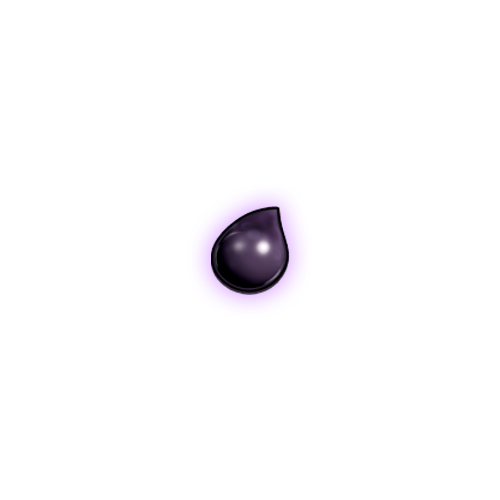
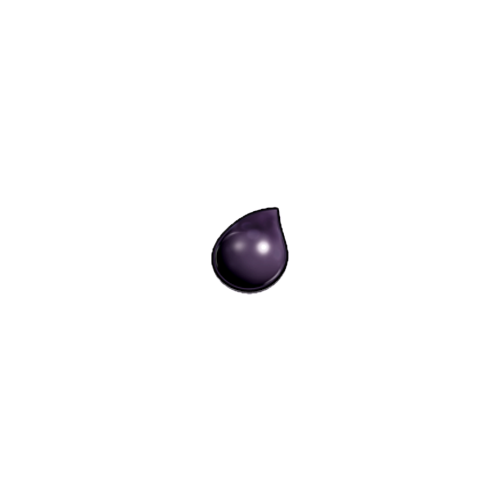
blue outline fix. little animation changed dark elixir texture to remove its highlight background

Changed region(s): [[0.39, 0.39, 0.6, 0.63]]

diff --git a/app/ClashOfReels/ClashOfReels.js b/app/ClashOfReels/ClashOfReels.js
@@ -100,7 +100,7 @@ const builder = {
     weight: [9999],
     onlyAppearOnRoll: true,
     matchEffect: "builder_match",
-    explodingEffect: "builder_poof",
+    explodeEffect: "builder_poof",
     clusterSize: 1,
     dontCluster: true,
     prio: true,
@@ -115,7 +115,7 @@ const warden = {
     onlyAppearOnRoll: true,
     // matchEffect: "VIDEO_PLAY",
     explodeEffect: "warden_explode",
-    // explodingEffect: "warden_poof",
+    // explodeEffect: "warden_poof",
     // clusterSize: 1,
     prio: true,
     videoPath: "warden_anim.mp4",
@@ -170,6 +170,7 @@ const SUPER_SYMBOLS = [
         payouts: { 3: 1.0, 4: 2.0, 5: 5.0 }, // Higher payouts?
         path: "super/super_barbarian.png", // Ensure this exists or use placeholder
         superAbility: "EXPLODE_NEIGHBORS",
+        explodeEffect: "CAMERA_SHAKE",
         multiplier: 2,
     },
     {
@@ -181,6 +182,7 @@ const SUPER_SYMBOLS = [
         payouts: { 3: 1.0, 4: 2.0, 5: 5.0 },
         path: "super/super_archer.png",
         superAbility: "SHOOT_ARROWS",
+        explodeEffect: "CAMERA_SHAKE",
         multiplier: 2,
     },
     {
@@ -192,6 +194,7 @@ const SUPER_SYMBOLS = [
         payouts: { 3: 1.0, 4: 2.0, 5: 5.0 },
         path: "super/super_goblin.png",
         superAbility: "EXPLODE_NEIGHBORS",
+        explodeEffect: "CAMERA_SHAKE",
         multiplier: 2,
     },
     {
@@ -203,6 +206,7 @@ const SUPER_SYMBOLS = [
         payouts: { 3: 1.0, 4: 2.0, 5: 5.0 },
         path: "super/super_wizard.png",
         superAbility: "EXPLODE_NEIGHBORS",
+        explodeEffect: "CAMERA_SHAKE",
         multiplier: 2,
     }
 ];
@@ -244,6 +248,8 @@ export default class ClashOfReels extends SlotsBase {
             mode: "normal",
             bounce: 0,
             bounceDuration: .5,
+            windUp: -40, // pixels
+            bounceUpBeforeAccelerating: 40, // pixels
             motionBlurStrength: .8,
             defaultLandingEffect: "HEAVY_LAND",
             defaultMatchEffect: "DEFAULT_MATCH_ANIMATION",
@@ -275,7 +281,6 @@ export default class ClashOfReels extends SlotsBase {
             rows: 5,
             bombsCount: 5
         });
-
         this.init()
     }
 
@@ -663,6 +668,7 @@ export default class ClashOfReels extends SlotsBase {
                 // Simple check: Is he on the board?
                 const wardenData = this.contain(warden.id, currentGrid)
                 if (wardenData) {
+                    actionOccurred = true;
 
                     // Use the helper to determine IF he has valid targets
                     const wardenAction = this.calculateWardenAction(currentGrid);
@@ -738,6 +744,7 @@ export default class ClashOfReels extends SlotsBase {
                 }
             }
         });
+
         if (townHallMultipliers > 0 && totalWin > 0) {
             timeline.push({
                 type: 'TOWNHALL_BONUS', // Unique identifier for the frontend
@@ -929,6 +936,35 @@ export default class ClashOfReels extends SlotsBase {
                     }
                 });
             }
+            else if (effect === "CAMERA_SHAKE") {
+                const whatToMove = this.stage
+                const startX = whatToMove.x
+                const startY = whatToMove.y
+                const duration = 0.5;   // Total time
+                const shakes = 15;      // How many rapid movements
+                const intensity = 5;    // Max pixel offset (Amplitutde)
+                const keyframes = [];
+
+                for (let i = 0; i < shakes; i++) {
+                    const decay = 1 - (i / shakes);
+                    const x = (Math.random() * intensity * 2 - intensity) * decay;
+                    const y = (Math.random() * intensity * 2 - intensity) * decay;
+
+                    keyframes.push({
+                        x: startX + x,
+                        y: startY + y,
+                        duration: duration / shakes
+                    });
+                }
+
+                keyframes.push({ x: startX, y: startY, rotation: 0, duration: 0.1, ease: "power2.out" });
+                await new Promise(resolve => {
+                    gsap.to(this.stage, {
+                        keyframes: keyframes,
+                        onComplete: resolve
+                    });
+                });
+            }
         })
     }
     async triggerMinesBonusRound() {
@@ -1025,30 +1061,6 @@ export default class ClashOfReels extends SlotsBase {
         const { type, origin, symbolName } = data;
 
         if (type === "EXPLODE_NEIGHBORS") {
-            const duration = 0.5;   // Total time
-            const shakes = 15;      // How many rapid movements
-            const intensity = 5;    // Max pixel offset (Amplitutde)
-            const keyframes = [];
-
-            for (let i = 0; i < shakes; i++) {
-                const decay = 1 - (i / shakes);
-                const x = (this.random() * intensity * 2 - intensity) * decay;
-                const y = (this.random() * intensity * 2 - intensity) * decay;
-
-                keyframes.push({
-                    x: x,
-                    y: y,
-                    duration: duration / shakes
-                });
-            }
-
-            keyframes.push({ x: 0, y: 0, rotation: 0, duration: 0.1, ease: "power2.out" });
-            await new Promise(resolve => {
-                gsap.to(this.stage, {
-                    keyframes: keyframes,
-                    onComplete: resolve
-                });
-            });
         }
         else if (type === "SHOOT_ARROWS") {
             console.log("Super Archer Logic Executing!");

diff --git a/app/game-engine/Reel.js b/app/game-engine/Reel.js
@@ -66,9 +66,27 @@ export class Reel {
         }
     }
 
-    spin(resultData) {
+    async spin(resultData) {
         this.reset();
         this.state = 'ACCELERATING';
+        await new Promise(resolve => {
+            // Move the container UP by 50px (negative y)
+            gsap.to(this.container, {
+                y: this.game.config.windUp,
+                duration: 0.25,
+                ease: "back.out(1.5)", // Gives it a little overshoot pop
+                onComplete: () => {
+                    // Move it back to 0 while the symbols start moving down
+                    // This creates a seamless "snap back" effect
+                    gsap.to(this.container, {
+                        y: 0,
+                        duration: 0.15,
+                        ease: "power1.in"
+                    });
+                    resolve();
+                }
+            });
+        })
         gsap.to(this, {
             speed: this.config.spinSpeed,
             duration: .5,

diff --git a/app/components/PixiCanvas.jsx b/app/components/PixiCanvas.jsx
@@ -14,7 +14,7 @@ export default function PixiCanvas({ gameClass, gameState, onGameEvent, onGameRe
 
             await app.init({
                 resizeTo: containerRef.current,
-                backgroundColor: 0x1099bb,
+                backgroundColor: 0,//0x1099bb,
                 backgroundAlpha: 0,
                 resolution: window.devicePixelRatio || 1,
                 autoDensity: true,
@@ -119,7 +119,7 @@ export default function PixiCanvas({ gameClass, gameState, onGameEvent, onGameRe
     return (
         <div
             ref={containerRef}
-            style={{ width: '100%', height: '100%', overflow: 'hidden' }}
+            style={{ width: '100%', height: '100%', overflow: 'hidden', outline: "none", userSelect: "none" }}
         />
     );
 };

diff --git a/app/globals.css b/app/globals.css
@@ -20,3 +20,8 @@ html,
 body {
     font-family: "cocFont", system-ui, -apple-system, Arial, sans-serif;
 }
+
+@theme {
+    --font-display: "Satoshi", "sans-serif";
+    --color-clash-yellow-100: rgb(255, 209, 16)
+}
